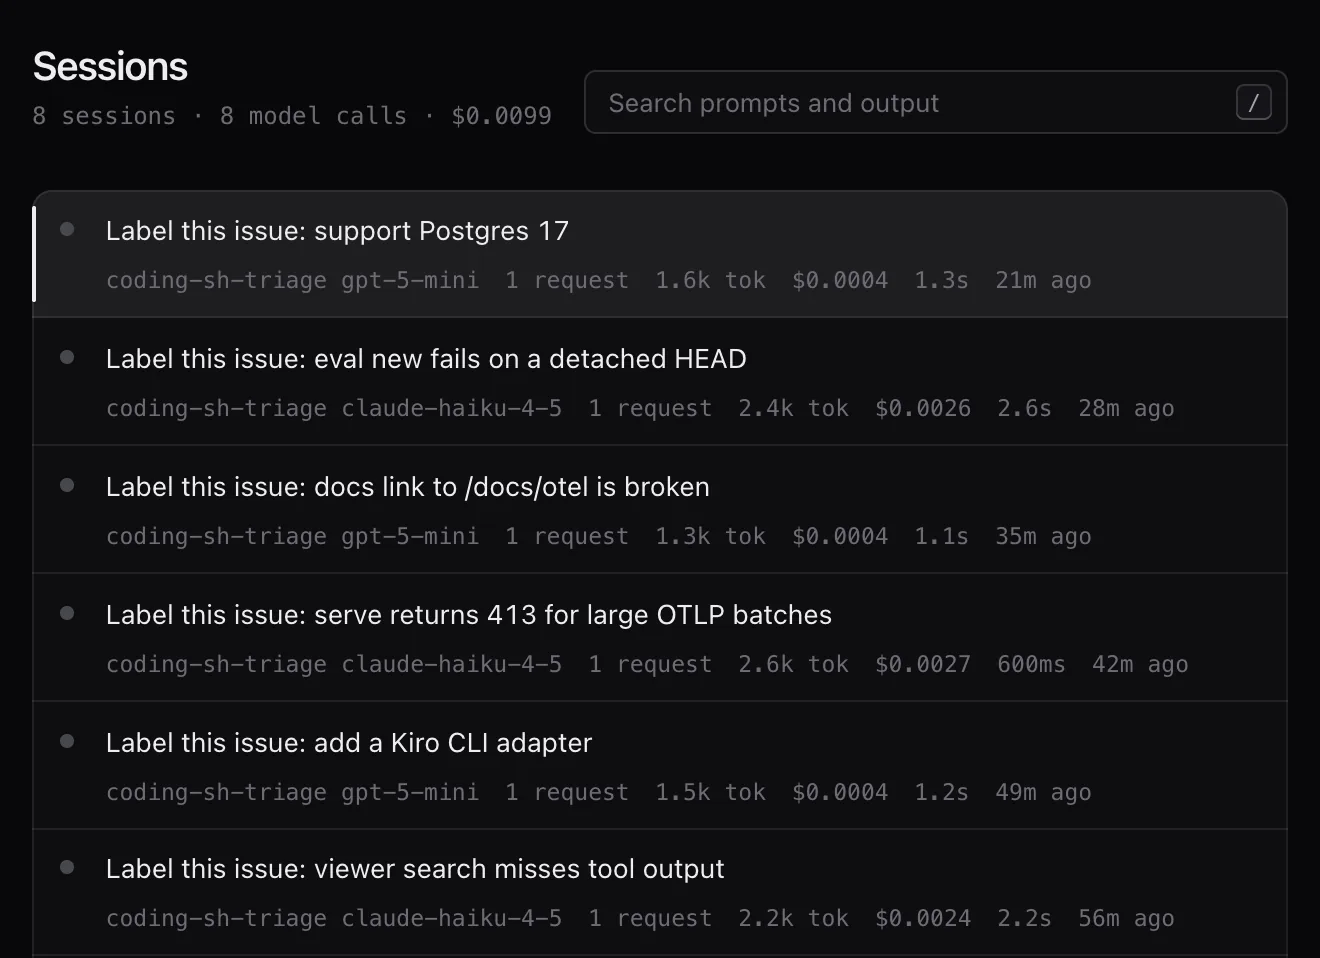
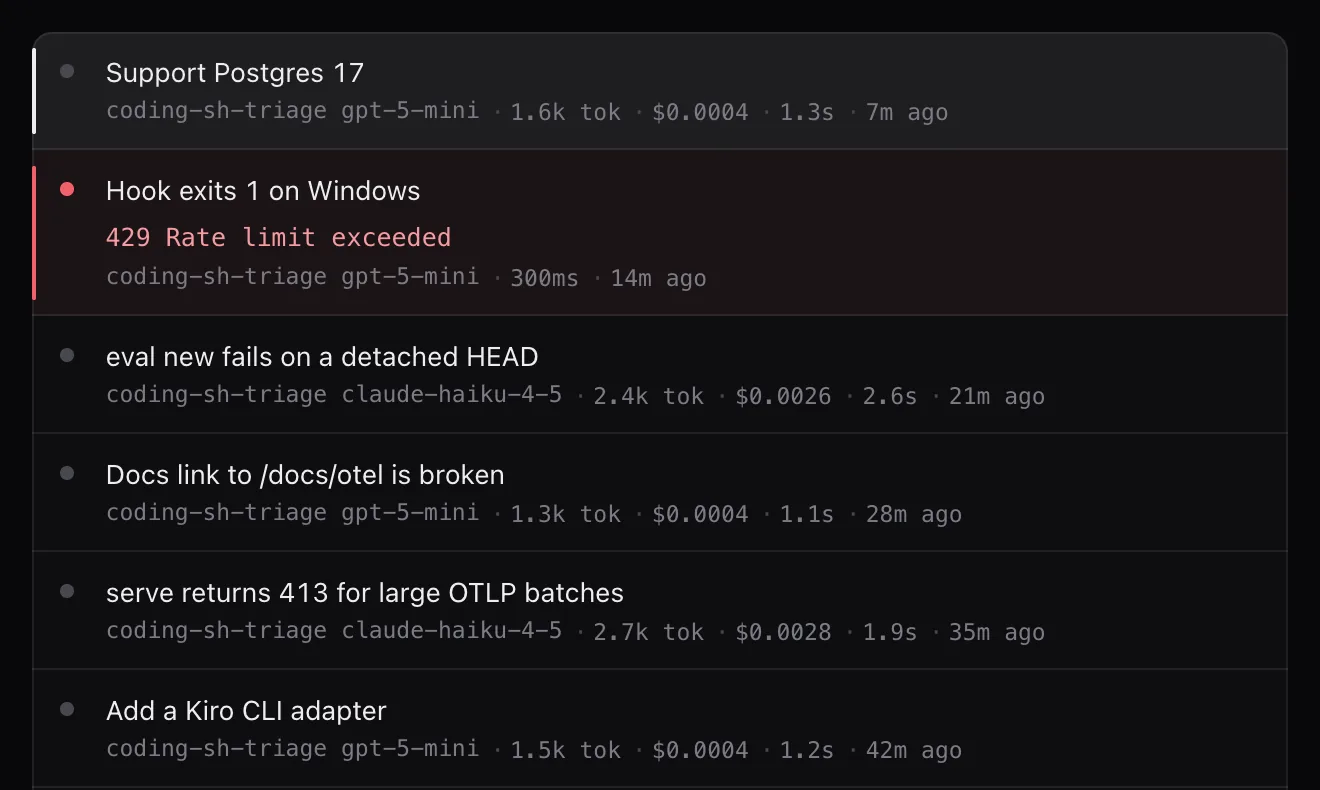
fix(site): fresh product shots, stable scrollbar gutter, menu copy status
Regenerated landing screenshots from the shots seed, reserved the
scrollbar gutter so the menu doesn't shift the page, announced copy in
the phone menu, hid the agent note from screen readers and trimmed the
quickstart intro.

diff --git a/apps/site/src/styles/global.css b/apps/site/src/styles/global.css
@@ -79,6 +79,9 @@ html {
   -webkit-text-size-adjust: 100%;
   -webkit-tap-highlight-color: transparent;
   scroll-padding-top: calc(var(--nav-h) + 0.5rem);
+  /* A classic scrollbar that appears after first paint would shift the
+     centered column; reserve its gutter from the start. */
+  scrollbar-gutter: stable;
 }
 @media (prefers-reduced-motion: no-preference) {
   html:focus-within {
